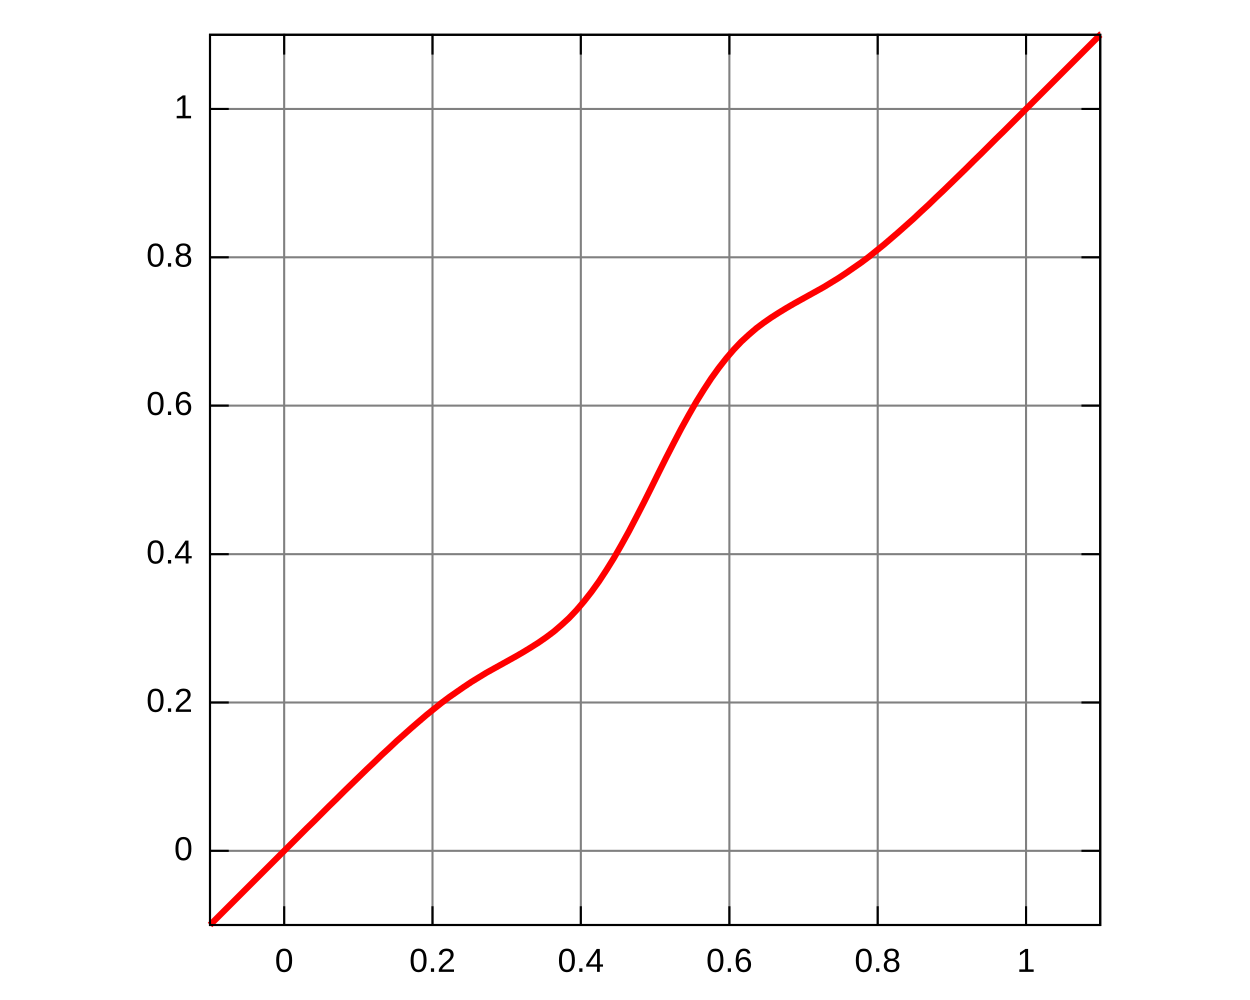
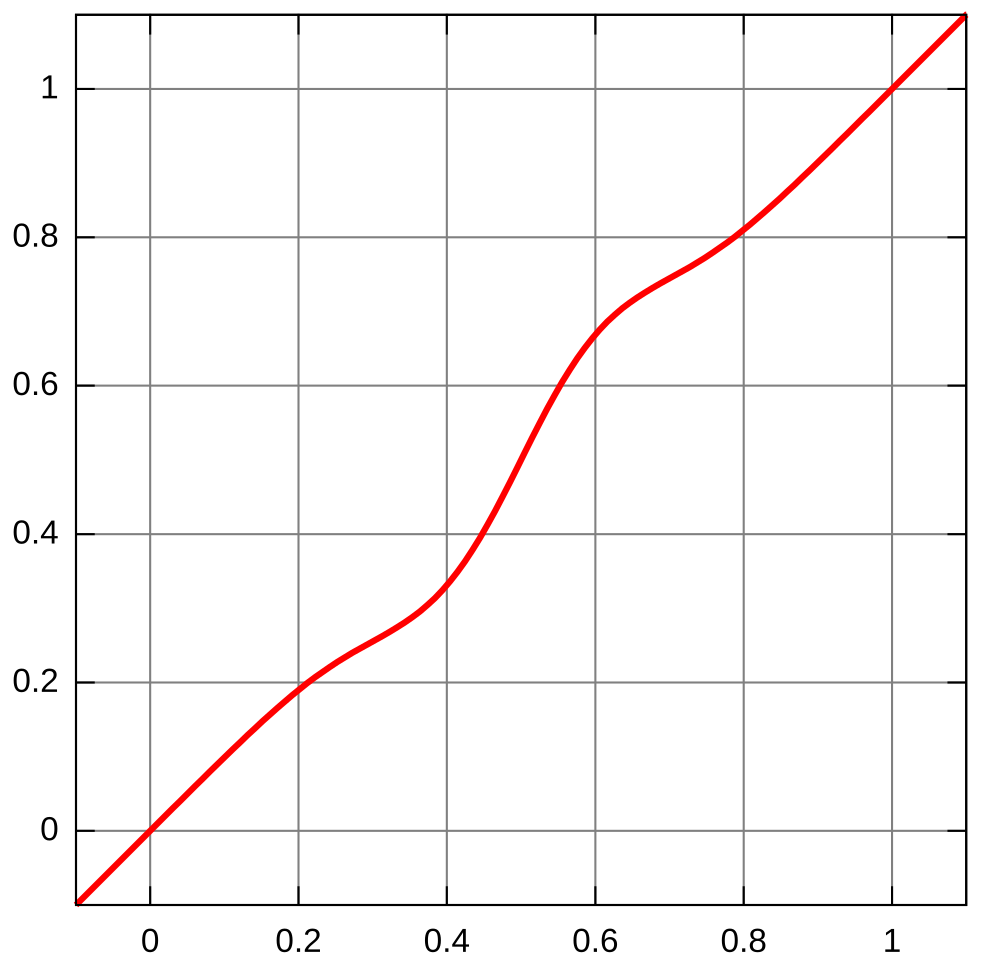
various image adjustments

diff --git a/content/module-reference/processing-modules/color-zones.md b/content/module-reference/processing-modules/color-zones.md
@@ -21,17 +21,17 @@ The _color zones_ module offers three different methods for selecting which pixe
 select by hue (default)
 : Choose which pixels to manipulate based on their hue. For example, you may want to darken a blue sky, or to change a red porche into a yellow one. The following image shows the full range of hues that you can choose to operate on:
 
-: ![color zones choose hue](./color-zones/color-zones-choose-hue.png#w50)
+: ![color zones choose hue](./color-zones/color-zones-choose-hue.png#w33)
 
 select by lightness
 : Choose which pixels to manipulate based on their lightness. For example, you may want to make your shadows brighter (which is like doing a sort of tone mapping), or to make your highlights a little more yellow in hue. The following image shows the range of lightness levels that you can choose to operate on, from dark to light:
 
-: ![color zones choose lightness](./color-zones/color-zones-choose-lightness.png#w50)
+: ![color zones choose lightness](./color-zones/color-zones-choose-lightness.png#w33)
 
 select by saturation
 : Choose which pixels to manipulate based on their saturation. For example, you may want to tone down the saturation of some already highly saturated pixels, or to change their hue. The following image shows the range of saturation levels that you can choose to operate on, from a completely unsaturated monochrome grey through to the most highly saturated color:
 
-: ![color zones choose saturation](./color-zones/color-zones-choose-saturation.png#w50)
+: ![color zones choose saturation](./color-zones/color-zones-choose-saturation.png#w33)
 
 # pixel manipulation curves
 
@@ -42,17 +42,17 @@ If, for example, you were to choose to _select by hue_ (the default), the horizo
 lightness
 : By adjusting the lightness curve up or down in a given (hue) location, you can brighten or darken pixels matching hues where the curve has been raised or lowered, respectively. In the example below the blue sky in an image has been darkened for dramatic effect:
 
-: ![color zones adjust lightness](./color-zones/color-zones-adjust-lightness.png#w50)
+: ![color zones adjust lightness](./color-zones/color-zones-adjust-lightness.png#w33)
 
 saturation
 : By adjusting the saturation curve up or down in a given (hue) location, you can desaturate (make less colorful) or resaturate (make more colorful) pixels matching hues where the curve has been raised or lowered, respectively. In the example below, a red object in the background has been desaturated so it is less of a distraction to the main subject of the photo:
 
-: ![color zones adjust saturation](./color-zones/color-zones-adjust-saturation.png#w50)
+: ![color zones adjust saturation](./color-zones/color-zones-adjust-saturation.png#w33)
 
 hue
 : By adjusting the hue curve up or down in a given (hue) location, you can shift the hue of pixels matching hues where the curve has been raised or lowered, respectively, allowing you to replace one color with another. In the example below, a pink toy in an image has been changed to blue:
 
-: ![color zones adjust hue](./color-zones/color-zones-adjust-hue.png#w50)
+: ![color zones adjust hue](./color-zones/color-zones-adjust-hue.png#w33)
 
 The curves work similarly in the lightness-based and saturation-based selection modes as well. See the section on [curves](../../darkroom/interacting-with-modules/curves.md) to see how spline curves work in general.
 
@@ -68,7 +68,7 @@ If you click on the color picker on the right, you can similarly choose a rectan
 
 If you hold Ctrl while selecting a region using the right-hand color picker, the auto-generated curve nodes will be automatically pushed up in the selected range. You can then fine-tune by dragging on the individual nodes. If you hold Shift while selecting a region, the curve will instead be pushed down in the selected range.
 
-![color zones overview](./color-zones/color-zones-overview.png#w50)
+![color zones overview](./color-zones/color-zones-overview.png#w33)
 
 # module controls
 

diff --git a/content/module-reference/utility-modules/darkroom/mask-manager.md b/content/module-reference/utility-modules/darkroom/mask-manager.md
@@ -8,7 +8,7 @@ view: darkroom
 
 Manage all masks and shapes for the current image. 
 
-![mask manager](./mask-manager/mask-manager.png)
+![mask manager](./mask-manager/mask-manager.png#w25)
 
 This module can be used to create, rename, edit and delete shapes. You can add shapes to and remove shapes from a mask, group shapes together, and combine them using set operators. 
 
@@ -58,26 +58,26 @@ move up/down
 
 As an example we will use a mask that combines a gradient followed by a path, to demonstrate the effect of each set operator when applied to the path shape. As a convention we say that a pixel is “selected” in a mask or shape if it has a value higher than zero. 
 
-![gradient](./mask-manager/mask-manager_ex1.png#w25) 
+![gradient](./mask-manager/mask-manager_ex1.png#w33) 
 
-![path](./mask-manager/mask-manager_ex2.png#w25)
+![path](./mask-manager/mask-manager_ex2.png#w33)
 
 union
 : This is the default set operator. It is depicted by the symbol ![union-icon](./mask-manager/masks_union.png#icon) to the left of the shape name. The shape adds to the existing mask in such a way that the resulting mask contains the pixels that are *either* selected in the existing mask *or* in the added shape. In overlapping areas the maximum value is taken: 
 
-: ![union](./mask-manager/mask-manager_ex3.png#w25)
+: ![union](./mask-manager/mask-manager_ex3.png#w33)
 
 intersection
 : This set operator is depicted by the symbol ![intersection-icon](./mask-manager/masks_intersection.png#icon) to the left of the shape name. The shape adds to the existing mask in such a way that the resulting mask contains only pixels that are selected in *both* the existing mask *and* the added shape. In overlapping areas the minimum value is used. In the given example we use this operator to “imprint” the path with a gradient: 
 
-: ![intersection](./mask-manager/mask-manager_ex4.png#w25)
+: ![intersection](./mask-manager/mask-manager_ex4.png#w33)
 
 difference
 : This set operator is depicted by the symbol ![difference-icon](./mask-manager/masks_difference.png#icon) to the left of the shape name. In the non-overlapping area the existing mask is unchanged. In the resulting mask, pixels are selected only if they are selected in the existing mask but *not* in the added shape. This set operator can be chosen if you want to “cut out” a region from within an existing selection: 
 
-: ![difference](./mask-manager/mask-manager_ex5.png#w25)
+: ![difference](./mask-manager/mask-manager_ex5.png#w33)
 
 exclusion
 : This set operator is depicted by the symbol ![exclusion-icon](./mask-manager/masks_exclusion.png#icon) to the left of the shape name. The resulting mask has all pixels selected that are either selected in the existing mask and not in the added shape or vice versa. This is equivalent to an “exclusive or”: 
 
-: ![exclusion](./mask-manager/mask-manager_ex6.png#w25)
+: ![exclusion](./mask-manager/mask-manager_ex6.png#w33)

diff --git a/content/module-reference/processing-modules/filmic-rgb.md b/content/module-reference/processing-modules/filmic-rgb.md
@@ -79,22 +79,22 @@ The graphic display of the _filmic rgb_ module now offers multiple views. You ca
 look only
 : This is the traditional graph provided by _filmic rgb_. The main bright curve shows how the dynamic range of scene (in EV) is compressed into the display-referred output range. The orange dot shows the middle grey point, the white dots either side mark out the latitude range, and the organge part of the curve at the bottom indicates an overshoot problem with the spline (the _look_ tab in the _module controls_ section has some controls to deal with this).  The darker curve shows how the color saturation is rolled off in the highlights and shadows extremes.
 
-: ![filmic-rgb-look-only](./filmic-rgb/filmic-look-only.png)
+: ![filmic-rgb-look-only](./filmic-rgb/filmic-look-only.png#w50)
 
 look + mapping (linear)
 : This view shows the mapping of input values [0,1] to output values in linear space, including the dynamic range mapping and the output transfer function. Note that in a scene-referred workflow, input values are allowed to exceed 1, however the graph only shows in/out values in the interval [0,1] in order to make the shape of the graph comparable to other tone curve mapping tools such as _base curve_ or _tone curve_. The actual value of the scene white point is shown in brackets on the _X axis_ (expressed as a percentage of an input value of 1).
 
-: ![filmic-rgb-look-mapping-lin](./filmic-rgb/filmic-look-mapping-lin.png)
+: ![filmic-rgb-look-mapping-lin](./filmic-rgb/filmic-look-mapping-lin.png#w50)
 
 look + mapping (log)
 : The same as the previous view, but plotted in log space.
 
-: ![filmic-rgb-look-mapping-lin](./filmic-rgb/filmic-look-mapping-log.png)
+: ![filmic-rgb-look-mapping-lin](./filmic-rgb/filmic-look-mapping-log.png#w50)
 
 dynamic range mapping
 : This view is inspired by the Ansel Adams Zone System, showing how the EV zones in the input scene are mapped to the output. Middle grey from the scene is always mapped to 18% in the output (linear) space, and it shows how the tonal ranges towards the extremes of the scene exposure range are compressed into a smaller number of zones in the display space, leaving more room for the mid-tones to be spread out over the remaining zones. The latitude range is represented by the darker grey portion in the middle.
 
-: ![filmic-rgb-look-mapping-lin](./filmic-rgb/filmic-dynamic-range-map.png)
+: ![filmic-rgb-look-mapping-lin](./filmic-rgb/filmic-dynamic-range-map.png#w50)
 
 # module controls
 

diff --git a/content/darkroom/interacting-with-modules/wavelets.md b/content/darkroom/interacting-with-modules/wavelets.md
@@ -23,7 +23,7 @@ These wavelet functions are used to scan across and down the image using a mathe
 
 Below is an example where detail layers have been extracted from the image shown above. In this case, the images were produced using the [_retouch_](../../module-reference/processing-modules/retouch.md) module, splitting the image into 8 different layers, and using the module's controls to visualise the details present at each of these wavelet scales:
 
-![wavelets-retouch-gui](./wavelets/clean-retouch.png)
+![wavelets-retouch-gui](./wavelets/clean-retouch.png#w33)
 
 The bars in the _wavelet decompose_ section indicate the layers that have been extracted at different wavelet scales. The darkest rectangle at the left represents the entire image (before decomposition) and the grey boxes represent each of the decomposed layers. Clicking on the staircase icon below the bar graph enables the layer visualisation overlay so that you can see what the currently selected layer looks like. 
 
@@ -65,7 +65,7 @@ There are two methods by which processing modules allow you to modify their oper
 
 As discussed above, the _retouch_ module allows you to choose how many detail levels to split your image into. It decomposes the image into separate layers and allows you to perform operations selectively on each individual layer or on the image as a whole:
 
-![wavelets-retouch-gui](./wavelets/clean-retouch.png)
+![wavelets-retouch-gui](./wavelets/clean-retouch.png#w33)
 
 See the [_retouch_](../../../module-reference/processing-modules/retouch.md) module documentation for more details.
 
@@ -73,7 +73,7 @@ See the [_retouch_](../../../module-reference/processing-modules/retouch.md) mod
 
 The [_denoise (profiled)_](../../module-reference/processing-modules/denoise-profiled.md), [_raw denoise_](../../module-reference/processing-modules/raw-denoise.md) and [_contrast equalizer_](../../module-reference/processing-modules/contrast-equalizer.md) modules allow their effects to be applied more or less to different wavelet scales using _splines_.
 
-![spline](./wavelets/clean-spline.png#w50)
+![spline](./wavelets/clean-spline.png#w33)
 
 Here, each node in the graph represents a different level of detail in the image, from coarse detail on the left to fine detail on the right. You can raise or lower each of these nodes with your mouse to increase or decrease the module's effect, respectively, on that wavelet scale. 
 

diff --git a/content/module-reference/processing-modules/liquify.md b/content/module-reference/processing-modules/liquify.md
@@ -29,29 +29,29 @@ A point is formed by a single node. In a point the strength vector has three dif
 linear
 : A linear distortion inside the circle, starting from the opposite side of the strength vector and following the vector's direction. This is the default mode.
 
-: ![linear](./liquify/liquify_ex1.png)
+: ![linear](./liquify/liquify_ex1.png#w33)
 
 radial growing
 : The strength vector's effect is radial, starting with a strength of 0% in the center and increasing away from the center. This mode is depicted by an additional circle with the arrow pointing outwards.
 
-: ![radial growing](./liquify/liquify_ex4.png)
+: ![radial growing](./liquify/liquify_ex4.png#w33)
 
 radial shrinking
 : The strength vector's effect is radial, starting with a strength of 100% in the center and decreasing away from the center. This mode is depicted by an additional circle with the arrow pointing inwards.
 
-: ![radial shrinking](./liquify/liquify_ex3.png)
+: ![radial shrinking](./liquify/liquify_ex3.png#w33)
 
 ## feathering
 
 default mode
 : By default the strength varies linearly from 0% to 100% between the center and the radius of the control point. It is possible to modify the feathering effect by clicking on the center of the circle.
 
-: ![default](./liquify/liquify_ex1.png)
+: ![default](./liquify/liquify_ex1.png#w33)
 
 feathered mode
 : In "feathered" mode, two control circles are displayed and can be modified independently to feather the strength of the effect. Note that clicking the center of the circle again hides the feathering controls but does _not_ return to the default mode.
 
-: ![feathered](./liquify/liquify_ex2.png)
+: ![feathered](./liquify/liquify_ex2.png#w33)
 
 ## removing points
 
@@ -66,10 +66,10 @@ Click the appropriate icon to activate the line or curve tool and click on the i
 Holding Ctrl while clicking on the point icon allows you to add multiple points without having to click the icon again. Right-click a second time to exit creation mode after a line or curve has been completed.
 
 lines
-: ![linear](./liquify/liquify_ex5.png)
+: ![linear](./liquify/liquify_ex5.png#w50)
 
 curves
-: ![linear](./liquify/liquify_ex6.png)
+: ![linear](./liquify/liquify_ex6.png#w50)
 
 Ctrl+click on a line or curve segment to add a new control point. Ctrl+right-click on the center of a node to remove a control point. 
 

diff --git a/content/module-reference/utility-modules/shared/histogram.md b/content/module-reference/utility-modules/shared/histogram.md
@@ -8,7 +8,7 @@ view: lighttable, tethering
 
 A graphical depiction of the developed image's light levels.
 
-![histogram](./histogram/histogram.png#w50)
+![histogram](./histogram/histogram.png#w33)
 
 Move the mouse over the panel to show buttons to adjust the display. The leftmost button cycles the mode between a "regular" and a waveform-style histogram. The next button controls how the data for the current mode is displayed. The three rightmost colored squares are toggles which enable or disable the display of the red, green and blue color channels.  
 
@@ -18,7 +18,7 @@ For the purposes of speed, the histogram display is calculated from the image pr
 
 # the "regular" histogram
 
-![histogram-regular](./histogram/histogram-regular.png#w50)
+![histogram-regular](./histogram/histogram-regular.png#w33)
 
 This shows the distribution of pixels by lightness for each color channel channel. In its default state, data for all three RGB color channels is displayed. The x-axis runs from 0% to 100% lightness for each channel. The y-axis gives the count of pixels with the given lightness.
 
@@ -26,7 +26,7 @@ Click the second-to-leftmost button on the panel to toggle between a logarithmic
 
 # waveform
 
-![histogram-waveform](./histogram/histogram-waveform.png#w50)
+![histogram-waveform](./histogram/histogram-waveform.png#w33)
 
 The waveform scope includes spatial data about the image. The y-axis represents the distribution of pixels by lightness for each channel. The x-axis represents the distribution of this data across the x-axis of the image. The lightness of each point of the waveform represents the number of pixels at that position.  
 
@@ -38,7 +38,7 @@ See [Of Histograms and Waveforms](https://www.darktable.org/2013/12/of-histogram
 
 # rgb parade
 
-![histogram-parade](./histogram/histogram-parade.png#w50)
+![histogram-parade](./histogram/histogram-parade.png#w33)
 
 This shows the same data as the waveform, but with the red, green, and blue channels presented side-by-side. When in waveform mode, clicking the second-to-leftmost button on the panel toggles between waveform (overlaid) and RGB parade rendering of the data.  
 

diff --git a/content/module-reference/processing-modules/retouch.md b/content/module-reference/processing-modules/retouch.md
@@ -16,19 +16,19 @@ This module extends the capabilities of the [_spot removal_](./spot-removal.md) 
 
 Cloning allows us to hide part of an image by replacing it with an area copied from another part of the image. For example, we may wish to get rid of a small cloud in a blue sky:
 
-![retouch-original](./retouch/rt-original.png)
+![retouch-original](./retouch/rt-original.png#w33)
 
 The simplest way to do this is with the _basic cloning_ tool (![retouch-clone-icon](./retouch/rt-clone-icon.png#icon)) -- simply take a circle of blue sky next to the cloud, and use it to paint over the cloud we want to hide:
 
-![retouch-clone](./retouch/rt-clone.png)
+![retouch-clone](./retouch/rt-clone.png#w33)
 
 However, if the sample we take doesn't precisely match the surroundings of the item we want to clone out, the result can look a bit jarring. In our example, the sample of sky we chose to use (the clone "source" patch) was slightly darker than the piece of sky we wanted to replace (the "target" patch):
 
-![retouch-clone-nocontrol](./retouch/rt-clone-nocontrol.png)
+![retouch-clone-nocontrol](./retouch/rt-clone-nocontrol.png#w33)
 
 If we instead use the _heal_ tool (![retouch-heal-icon](./retouch/rt-heal-icon.png#icon)), the color and luma of the sample is blended to fit better with the surroundings. In our example, using _heal_ instead of _clone_ gives a much more uniform-looking result:
 
-![retouch-heal-nocontrol](./retouch/rt-heal-nocontrol.png)
+![retouch-heal-nocontrol](./retouch/rt-heal-nocontrol.png#w33)
 
 # fill and blur
 
@@ -68,11 +68,11 @@ Wavelets allow us to decompose an image into different layers with varying level
 
 Through this method, we could for example use the healing tool to paint over a spot that appears in one of the coarse detail layers, while leaving the whiskers in the fine detail layers intact:
 
-![retouch-beard-preserve](./retouch/rt-beard-preserve.jpg)
+![retouch-beard-preserve](./retouch/rt-beard-preserve.jpg#w50)
 
 # module controls
 
-![retouch-overview](./retouch/rt-overview.png)
+![retouch-overview](./retouch/rt-overview.png#w33)
 
 ## retouch tools
 

diff --git a/content/module-reference/processing-modules/denoise-profiled.md b/content/module-reference/processing-modules/denoise-profiled.md
@@ -99,13 +99,13 @@ For example, you can preserve very-fine-grain noise by pulling the right-most pa
 
 The preferred way to use wavelets is with the new _Y0U0V0 color mode_. This separates the denoising curves into luminance (_Y0_) and color (_U0V0_) components. You can then use the _Y0_ curve to control the level of luma denoising at different scales, and the _U0V0_ curve to control the level of chroma denoising at different scales.
 
-![denoise-y0u0v0](./denoise-profiled/denoise-y0u0v0.png)
+![denoise-y0u0v0](./denoise-profiled/denoise-y0u0v0.png#w33)
 
 ## wavelets _RGB_ color mode
 
 Before the _Y0U0V0 color mode_, wavelet-based denoising could only be performed directly on the _R_, _G_ and _B_ channels, either all together in one go, or on an individual channel basis.
 
-![denoise-rgb](./denoise-profiled/denoise-rgb.png)
+![denoise-rgb](./denoise-profiled/denoise-rgb.png#w33)
 
 If you want to denoise the channels separately, the best way to do this is to use an instance of the [_color calibration_](./color-calibration.md) module immediately before the _denoise (profiled)_ module so that it outputs a grey channel based on the _red_ channel only, then denoise that monochrome image using the _red_ wavelet curve. Repeat this procedure for the blue and green channels. This procedure is time-consuming, but gives the best result because looking at the color of a noisy pixel is not a reliable way to determine which channel to adjust (e.g. a noisy red pixel could be due to a noise peak on the red channel, but could also be due to a noise lull on the blue and green channels).
 

diff --git a/content/darkroom/masking-and-blending/masks/parametric.md b/content/darkroom/masking-and-blending/masks/parametric.md
@@ -29,7 +29,7 @@ Two sliders can be shown for each associated data channel: one that works on the
 
 The _boost factor_ slider allows the range of values targetted by the parametric mask sliders to be extended. It may be used in scene referred editing, where luminance values may extend beyond 100%, to target highlights. This slider is only available for channels where it is meaningful.
 
-![input and output sliders](./parametric/input-output-sliders.png#w50)
+![input and output sliders](./parametric/input-output-sliders.png#w33)
 
 ## inspecting data channels & masks
 
@@ -53,13 +53,15 @@ A polarity (+/-) button to the right of each the slider switches between "range 
 
 **range select**
 
-![range select slider](./parametric/blendif_2a.png#w50)
-![range select graph](./parametric/blendif_2b.png#w50)
+![range select slider](./parametric/blendif_2a.png#w33)
+
+![range select graph](./parametric/blendif_2b.png#w33)
 
 **range deselect**
 
-![range deselect slider](./parametric/blendif_3a.png#w50)
-![range deselect graph](./parametric/blendif_3b.png#w50)
+![range deselect slider](./parametric/blendif_3a.png#w33)
+
+![range deselect graph](./parametric/blendif_3b.png#w33)
 
 In their default state all markers are at their extreme positions. In this state a range select function selects the whole range of values giving an “all at 100%” mask. Starting from there one can move the sliders inwards to gradually exclude more and more parts of the image except for the remaining narrow range.
 

diff --git a/content/module-reference/processing-modules/tone-equalizer.md b/content/module-reference/processing-modules/tone-equalizer.md
@@ -56,7 +56,7 @@ This tab contains all of the controls required to set up the guided mask. The pu
 
 To avoid having to switch back and forth between the _advanced_ tab and the _masking_ tab, under the "mask post processing" label there is a grey bar which shows a representation of the middle 80% of the histogram. By using the controls mentioned below to centre and spread out this grey bar, you can then expect to have a nicely shaped histogram when you return to the "advanced" tab. If you see orange at either end of the grey bar, it means too much of the histogram has moved off the edge of the screen, and you need to bring it back to centre and/or compress it a bit more.
 
-![tone-equalizer-mask-histogram](./tone-equalizer/tone-equalizer-mask-histogram.png)
+![tone-equalizer-mask-histogram](./tone-equalizer/tone-equalizer-mask-histogram.png#w33)
 
 When setting up the mask, there are a number of trade-offs to be made to balance the blurring within tonal regions against the preservation of boundaries between these regions.
 

diff --git a/content/module-reference/utility-modules/darkroom/clipping.md b/content/module-reference/utility-modules/darkroom/clipping.md
@@ -16,7 +16,7 @@ There are two ways in which a pixel might become clipped when represented in the
 
 The "clipping warning" module is used to highlight those pixels that cannot be accurately represented in the output color space, either due to luminance or gamut clipping. Prior to darktable 3.4, the clipping highlighted any pixels that exceeded the maximum allowed value on any of the [R,G,B] channels, or that had been completely crushed to black. From darktable 3.4 onwards, the clipping warning indicator has some additional modes to help you to differentiate between luminance and gamut clipping, so that you can make better decisions about how to address any issues.
 
-![clipping-menu](./clipping/clipping-menu.png)
+![clipping-menu](./clipping/clipping-menu.png#w33)
 
 The clipping warning module, described here, deals with clipping caused by image processing and the limitations of the output color space. It should not be confused with the following similar tools:
 

diff --git a/content/module-reference/processing-modules/zone-system.md b/content/module-reference/processing-modules/zone-system.md
@@ -18,7 +18,7 @@ Adjust the lightness of an image using Ansel Adams' [zone system](https://en.wik
 
 The lightness of the image (the L channel in Lab color space) is divided into a number of zones ranging from pure black to pure white. These zones are displayed in a zonebar beneath a preview image. The number of zones can be changed by mouse-scrolling on that bar (default 10 zones).
 
-![zone-system](./zone-system/zone-system.png)
+![zone-system](./zone-system/zone-system.png#w33)
 
 The zonebar is split horizontally with the lower part showing the zones of the module's input and the upper part the zones of the module's output. In its default state both parts are fully aligned. While the output zones are static you can left click and drag a control point in the input zones to modify the mapping between input and output. 
 
